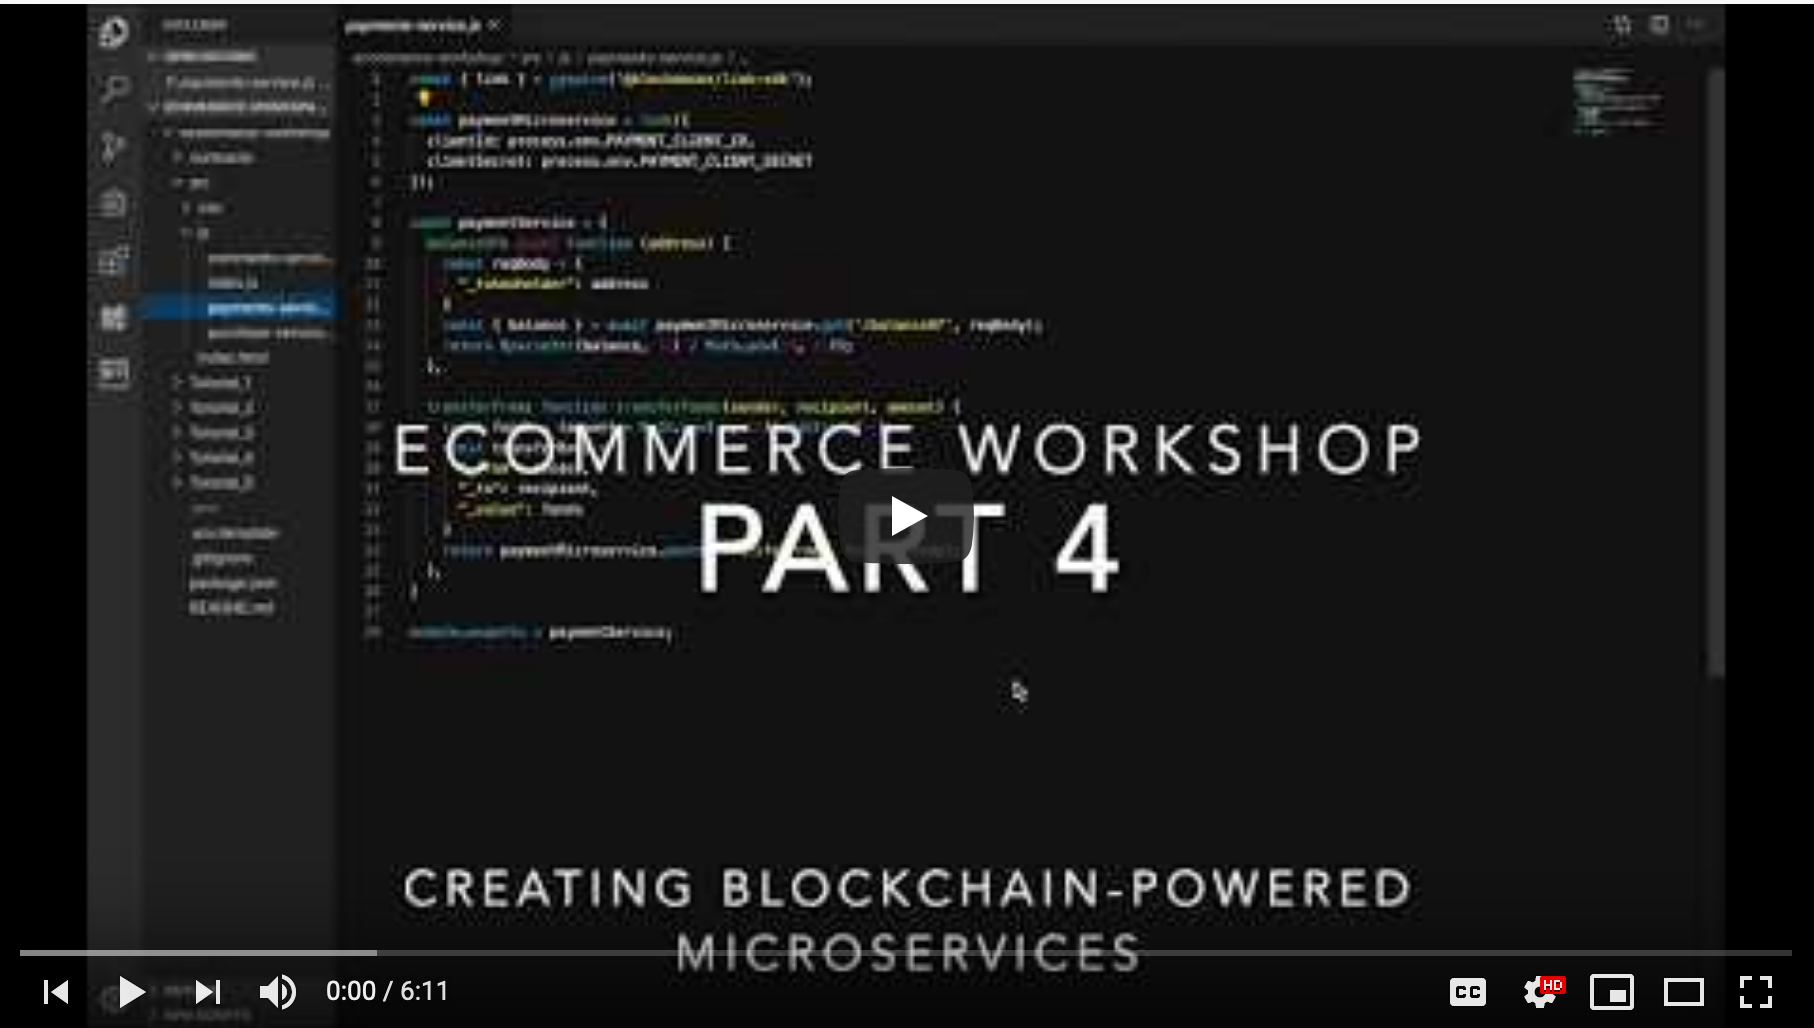
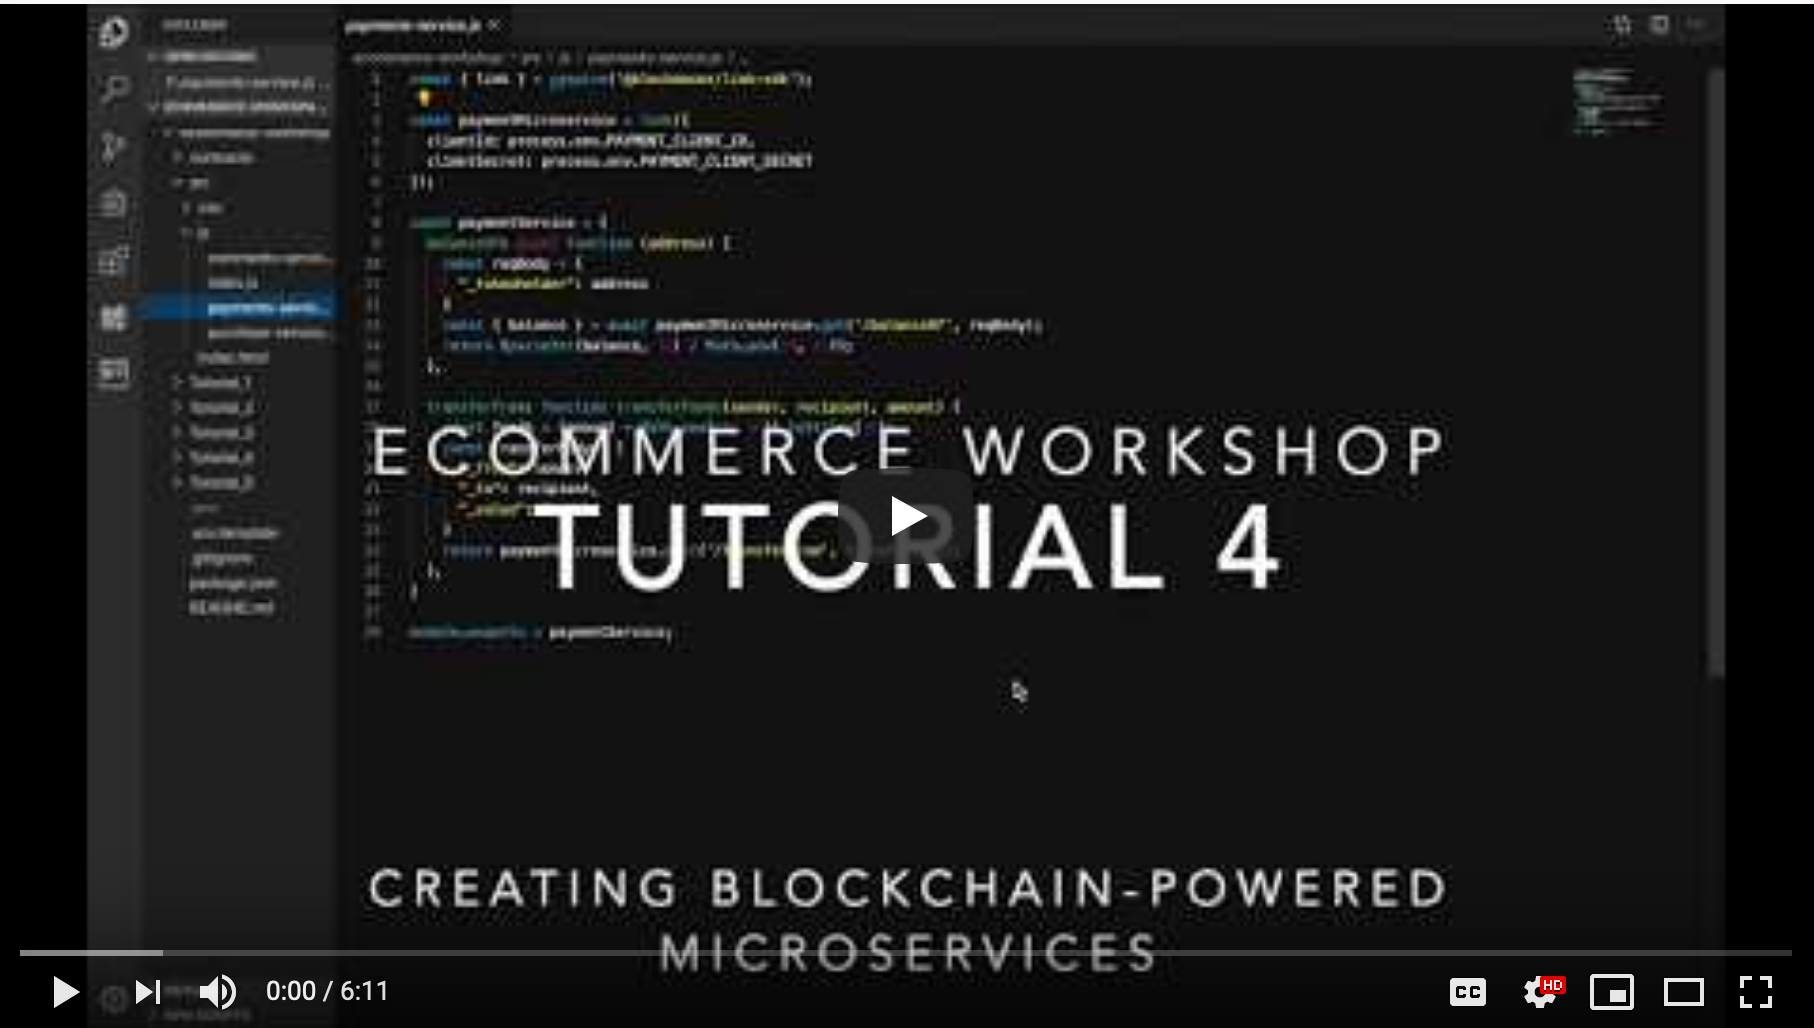
Updated video for tutorial 4

Changed region(s): [[0.1852, 0.4047, 0.8026, 0.5914], [0.0617, 0.8405, 0.8026, 0.9961]]

diff --git a/Tutorial_4/tutorial_4.md b/Tutorial_4/tutorial_4.md
@@ -1,4 +1,4 @@
-[![images/tutorial_4_video.png](images/tutorial_4_video.png)](https://www.youtube.com/watch?v=H75sKShaGC4)
+[![images/tutorial_4_video.png](images/tutorial_4_video.png)](https://www.youtube.com/watch?v=M4uVdOGRWVw&feature=youtu.be)
 
 ---
 
